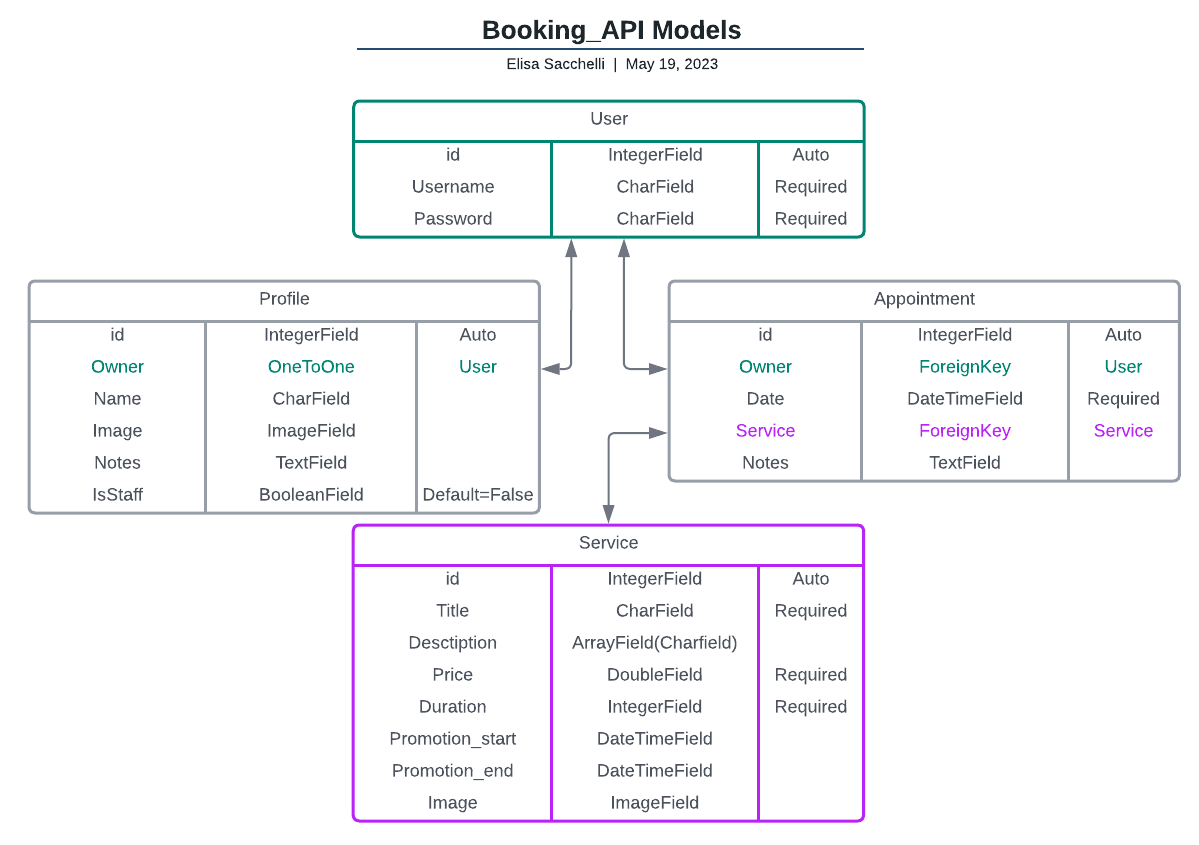
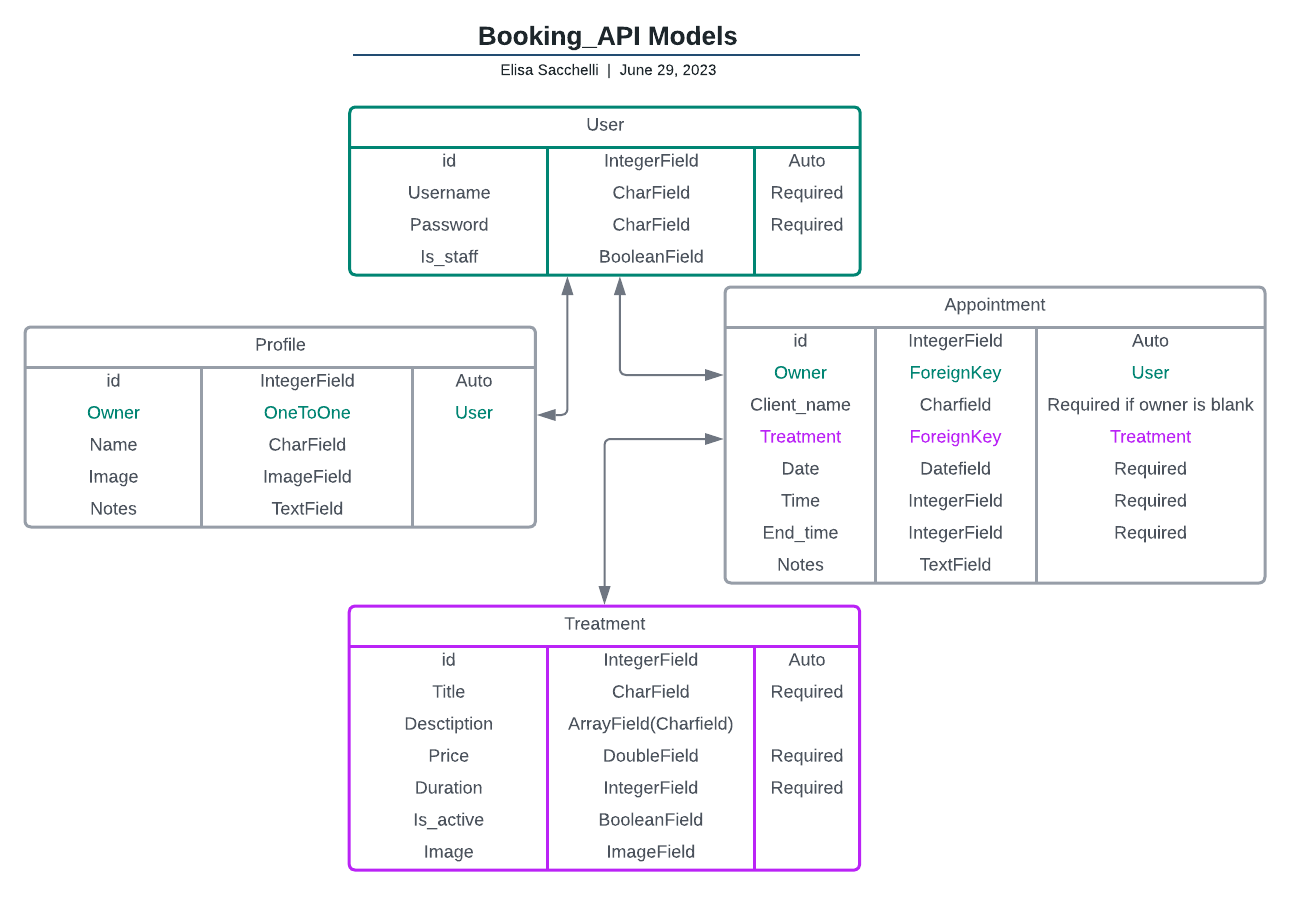
Add Features to README

Changed region(s): [[0.0, 0.0, 0.9875, 0.9846]]

diff --git a/treatments/views.py b/treatments/views.py
@@ -10,7 +10,7 @@ from booking_api.permissions import IsStaffMemberOrReadOnly
 
 
 class TreatmentList(generics.ListCreateAPIView):
-    """ List all treatmentss, or create a new one if logged in as staff """
+    """ List all treatments, or create a new one if logged in as staff """
     permission_classes = [ permissions.IsAuthenticatedOrReadOnly, IsStaffMemberOrReadOnly ]
     queryset = Treatment.objects.order_by('-created_at')
     filter_backends = [
@@ -40,7 +40,7 @@ class TreatmentDetail(generics.RetrieveUpdateDestroyAPIView):
 
         # if protected, cannot be deleted, show error message
         except ProtectedError as exception:
-            message = f"You cannot delete this Service because it is being used. Please, set it to inactive."
+            message = f"You cannot delete this Treatment because it is being used. Please, set it to inactive."
             response_msg = {
                 "error": {"message": message},
             }

diff --git a/treatments/models.py b/treatments/models.py
@@ -1,5 +1,4 @@
 from django.db import models
-from django.contrib.postgres.fields import ArrayField
 
 
 class Treatment(models.Model):

diff --git a/README.md b/README.md
@@ -1,18 +1,22 @@
 # booking API
-Django rest API for a booking system
+Django rest API for a booking system.
 
-[See deployed website]()
+This is an SPI built using the Django REST framework and meant to be used as back-end for the Platinum web application.
+
+[See deployed api](https://platinum-booking-api.herokuapp.com/)
+
+[See the front end repository](https://github.com/EliSacch/platinum)
+
+[See the deployed app](https://platinum.herokuapp.com/)
 
 ## Table of content
 
-- [Design and User Experience](#design-and-user-experience)
-  - [Design](#design)
-  - [User Stories](#user-stories)
-  - [Database model](#database-models)
+- [Project Planning](#project-planning)
 
 - [Features](#features)
-  - [User Profile](#user-profile)
-  - [Appointment](#appointment)
+  - [Appointmments](#appointments)
+  - [Treatments](#treatments)
+  - [Profile](#profile)
 
 - [Testing](#testing)
 
@@ -28,22 +32,17 @@ Django rest API for a booking system
 
 - [Acknowledgements](#acknowledgements)
 
-## Design and User Experience
+## Project Planning
 
 The web app was developed following the Agile methodology, utilizing the project functionality provided by GitHub
 [Link to the project board](https://github.com/users/EliSacch/projects/6/)
-
-### Design
-
-
-### User Stories
 
 
 [Back to the top](#table-of-content)
 
 ### Database Models
 
-These are the models created for this project: User, Profile, Appointment, Service
+These are the models created for this project: User, Profile, Appointment, Treatment
 
 - User:
 The User model is provided by Django Allauth package.
@@ -53,11 +52,46 @@ The following Models are custom:
 - Profile:
 This custom model is linked to the User model. It is used to store the user profile information.
 
+| Field name | Type | Notes |
+|------------|------|-------|
+| Owner | OneToOne field (User) | Instances can be added or removed only when we add or remove a User |
+| Name | Charfield | Optional |
+| Notes | Textfield | Optional |
+| Image | ImageField | Provides a default image if left blank |
+| Created_at | Datetimefield | Automatically set |
+| Updated_at | Datetimefield | Authomatically set |
+
+
 - Appointment:
 It is a model that stores the appointment information. It is linked to the User model, so that each user can access his/her appointments information.
 
-- Service:
-To easily manage the services that can be booked, the staff memebers can create and manage them via the service model.
+| Field name | Type | Notes |
+|------------|------|-------|
+| Owner | ForeignKey (User) | Appointments are deleted when the ForeignKey is deleted |
+| Client_name | Charfield | Optional |
+| Treatment | ForeignKey (Treatment) | The on_delete attribute is set to "Protect" because we want to preserve them |
+| Date | DateField | |
+| Time | IntegerField | The values can be selected from a preset list of options and they represent the appointment start time |
+| End_time | IntegerField | The value is calculated automatically based on the time and treatment selected |
+| Notes | TextField | Optional |
+| Created_at | Datetimefield | Automatically set |
+| Updated_at | Datetimefield | Authomatically set |
+
+
+- Treatment:
+To easily manage the services that can be booked, the staff memebers can create and manage them via the Treatment model.
+
+| Field name | Type | Notes |
+|------------|------|-------|
+| Title | Charfield | Must be unique |
+| Description | Textfield | Optional |
+| Price | FloatField | |
+| Duration | Integer Field | |
+| Image | Imagefield | A default image is provided |
+| Is_active | BooleanField | This field is meant to hide treatments that would have been cancelled, but that cannot be deleted because already related to one or more appointments |
+| Created_at | Datetimefield | Automatically set |
+| Updated_at | Datetimefield | Authomatically set |
+
 
 ![Model relationship diagram](media/models_relationships_diagram.png)
 
@@ -67,27 +101,111 @@ __________
 
 ## Features 
 
-### Profile
-
-When a user is registered, the user profile is automatically created.
-
-- __Profile Image__
-
-- __Role__
-
-- __Notes__
-
-### Appointment
+### Appointments
 
 Each user can create a new appointment for themselves. Users with a "Staff" role, can create an appointment for any user.
 
-- __Date and time__
+- __Serializers__
 
-- __Service__
+There are three serializers:
+- BaseAppointmentSerializer: which creates the base for the other two.
+This Base serializer contains the basic validation that it is then extended to the other two serializers.
 
-- __Notes__
+The main validation checks to be performed when creating or editing an appointment are relatd to the date and time of the appointment, so that we can avoid: Overlapping appointments, appointments for a past date, (or too much in the future) and appointments in unavaiable days or time slots.
+
+In particular, to avoid overlapping appointments we need the selected start time, and we need to retrieve the duration associated to the selected treatment:
+
+Being able to perform this calculation is the main reason why I choose IntegerField as type for the time and duration.
+
+- ClientAppointmentSerializer: It is the client side serilizer. Because clients can make appointment only for themselves, they owner is a Read only field, and they cannot add a client name (their username will be used instead). Clients also cannot make same day appointments, while staff members can, as long as they are at least 20 minutes in the future.
+
+- StaffAppointmentSerializer: Staff members can select an existing user as owner, or theu can leave the owner field blank if they want to make an appointment for unregistered clients. In this case although they must enter a cient name.
+
+
+- __Views__
+
+- AppointmentList: This is the staff facing list/create view. It can be accessed from authenticated users who also have the is_staff value set to true (staff members). It shows all the appointments.
+
+- MyAppointmentList: This is the client facing list/create view. It shows only the appointments belonging to the current user, for this reason the permissions are set as follow:
+
+      permission_classes = [ permissions.IsAuthenticated, IsOwner]
+
+- AppointmentDetail: This is the client facing detail/update/destroy view. Each user can access and manage only information related to his/her own appointments, for this reason the permissions are set as follow:
+
+      permission_classes = [ permissions.IsAuthenticated, IsOwner]
+
+
+- ClientAppointmentDetail: this is the staff facing detail/update/destroy view. Staff members can access and manafe all appointments, even if they are not the owner.
 
 [Back to the top](#table-of-content)
+
+### Treatments
+
+- __Serializers__
+
+There are two serializers for the Treatment model:
+
+- TreatmentSerializer: this is the staff facing serializer,because it allows staff members to access information such as the creation and update time.
+
+Here we also set the duration choices for the treatments. For a better user experience we don't want to allow any possible integer to be added as value, but we want to provide a reasonable amount of choices that reflect what the real business would offer. We also set the choice label to be a human friendly format, that shows the value as a time value instad of an integer.
+
+- ClientFacingTreatmentSerializer: This is the client facing serializer, which does not have any validation since the only allowed method is read only. Clients cannot add or edit any information.
+
+
+- __views__
+
+- TreatmentList: This is the list/create view. Only staff members can create a treatment, this is why the permissions are set as follow:
+
+    permission_classes = [ permissions.IsAuthenticatedOrReadOnly, IsStaffMemberOrReadOnly ]
+
+
+- TreatmentDetail: this is the retrieve/update/destroy view for treatments. clients can acess only safe methods (Read only), while staff members can update or delete treatments.
+
+In this view we override the destroy method, because we want to pass a custom message to inform the user in case they try to delete a treatment that was altready booked. Because this is not allowerd, so they are informed to set it as inactive.
+
+
+### Profiles
+
+When a user is registered, the user profile is automatically created.
+
+
+- __Serializers__
+
+We have three serializers; two of them related to the Profile model, while one is related to the User model, and it will be explained below.
+
+- ProfileSerializer: This is the client facing serializer. Clients can access their profile image, which is not available to staff members.
+
+- ClientSerializer: This is the staff facing serializer. It gives acces to two annotated field, to check the total count of appointments associated to a user, and if a user has any appointments for the current day.
+
+It also gives access to the notes fields, so that staff members can store some client information, such as special products used.
+
+- UserSerializer: This serializer gives access to the username and is_staff field of the User model. This serializer is used to allow staff members to change the role of other users, and give them the ability to acess the staff dashboard.
+
+- __Views__
+
+- ProfileList: This is a list only view for staff members. The creation is hnadled by the __post_save__ signal that reads when a user is created.
+
+- ProfileDetail: This is the client facing profile list view. For this reason is uses the Profile serializer, so that it doesn't allow access to the profile notes, or appointment count.
+
+- ClientProfileDetail: This is the retrieve/update view for staff members. It does not give access to the destroy method, because profiles are deleted when a user is deleted.
+
+- SetIsStaff: This View can be accessed by staff members only, and it is needed to access the is_staff column of the User model. 
+
+### Search, filter and ordering.
+
+The search functionality is added to the following views:
+
+- AppointmentList: Staff member can search for appointments by owner or client name.
+
+- TreatmentList: Treatments can be searched by title.
+
+- ProfileList: Users can be filtered by name or username.
+
+The filter functionality is added to the following views:
+
+- AppointmentList: Staff member can filter all appointments for a specific date.
+
+- ProfileList: can also be ordered based on the appointments count.
 
 __________
 
@@ -138,7 +256,6 @@ _____________
 
 - The code to display an error message for ProtectedError instad of the Django 500 error page is taken from [Stackoverflow](https://stackoverflow.com/questions/44229783/catch-protected-error-and-show-its-message-to-the-user-instead-of-bare-500-code)
 
-- The code to ####### is taken from [Link]()
 
 ### Content
 
